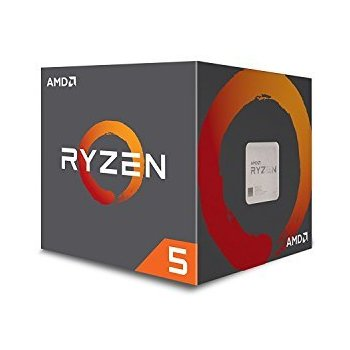
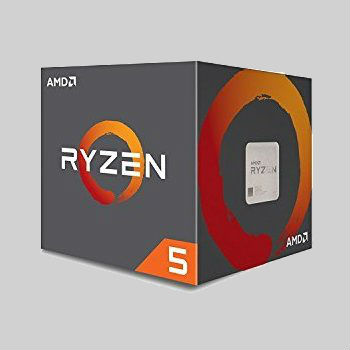
First products same as background

diff --git a/PGPCs/Content/bootstrap.css b/PGPCs/Content/bootstrap.css
@@ -3277,7 +3277,7 @@ input[type="button"].btn-block {
 
 .dropdown-menu > li > a:hover,
 .dropdown-menu > li > a:focus {
-  color: #ffffff;
+  color: #428bca;
   text-decoration: none;
   background-color: #428bca;
 }

diff --git a/PGPCs/Content/Site.css b/PGPCs/Content/Site.css
@@ -2,6 +2,7 @@
 body {
     padding-top: 50px;
     padding-bottom: 20px;
+    background-color: white;
 }
 
 /* Wrapping element */

diff --git a/PGPCs/App_Code/Models/DbInit.cs b/PGPCs/App_Code/Models/DbInit.cs
@@ -9,7 +9,7 @@ using System.Text;
 
 namespace PGPCs.Models
 {
-    public class DbInit : DropCreateDatabaseAlways<PRODUCTCONTEXT>
+    public class DbInit : DropCreateDatabaseIfModelChanges<PRODUCTCONTEXT>
     {
         protected override void Seed(PRODUCTCONTEXT context)
         {
